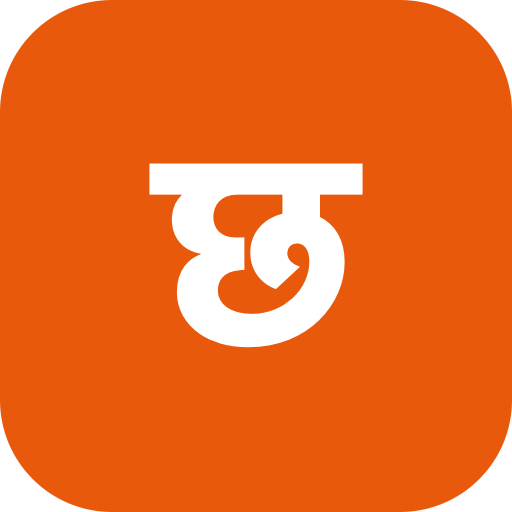
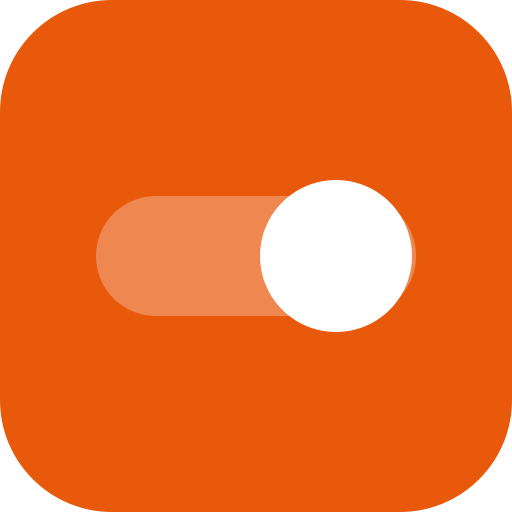
Rename: Chhalaang → Switch Karle
New name, same product. Chhalaang named the life event (the job switch);
it didn't say what the app DOES, and 'the leap' didn't scale past the CTC
decoder once Tracker and Prompt Studio shipped. Switch Karle names the whole
act of switching jobs — decode, track, negotiate — in the way people
actually say it to a friend ('arre switch kar le, yaar'), not an invented
portmanteau.

- GitHub repo renamed kalpitt/chhalaang -> kalpitt/switch-karle (GitHub
  keeps the old name redirecting)
- New icon: a toggle switch flicked on, replacing the छ glyph — literal,
  legible without any language-specific type
- All product strings renamed: package.json, manifest, index.html + OG tags,
  App.tsx header, ShareCard truth-card branding + download filename,
  Tracker backup filename, localStorage key prefix (chhalaang.* ->
  switchkarle.*), the AI-extractor prompt's JSON marker key, README, DEPLOY.md,
  GitHub Actions workflow name
- Service worker cache bumped to switchkarle-v1 so every existing visitor
  (i.e. Kalpit's own test installs) picks up the new branding immediately
- Canonical URL is now kalpit.me/switch-karle; old Cloudflare mirror keeps
  its chhalaang.tiwari-kalpit.workers.dev hostname (Cloudflare project
  renames need dashboard access, not urgent since it's a fallback mirror)

90/90 tests green, tsc clean, build clean, verified in-browser in both
languages (header stays 'Switch Karle' untranslated by design — it's a
[…]

Changed region(s): [[0.1875, 0.3125, 0.8125, 0.6875]]

diff --git a/index.html b/index.html
@@ -5,22 +5,22 @@
     <meta name="viewport" content="width=device-width, initial-scale=1.0" />
     <meta
       name="description"
-      content="Chhalaang (छलांग) — decode your Indian job offer. CTC to real in-hand salary, red-flag scanner for notice periods, bonds and variable pay. Free, open source, 100% in your browser."
+      content="Switch Karle — decode your Indian job offer. CTC to real in-hand salary, red-flag scanner for notice periods, bonds and variable pay. Free, open source, 100% in your browser."
     />
     <meta property="og:type" content="website" />
-    <meta property="og:title" content="Chhalaang — Decode your CTC. Know your real salary." />
+    <meta property="og:title" content="Switch Karle — Decode your CTC. Know your real salary." />
     <meta
       property="og:description"
       content="Your ₹24L CTC is not ₹2L/month. See the real in-hand, catch offer red flags, track your job hunt. Free, private, runs in your browser."
     />
-    <meta property="og:url" content="https://kalpit.me/chhalaang/" />
-    <meta property="og:image" content="https://kalpit.me/chhalaang/icon-512.png" />
+    <meta property="og:url" content="https://kalpit.me/switch-karle/" />
+    <meta property="og:image" content="https://kalpit.me/switch-karle/icon-512.png" />
     <meta name="twitter:card" content="summary" />
     <link rel="icon" type="image/svg+xml" href="./icon.svg" />
     <link rel="apple-touch-icon" href="./icon-180.png" />
     <link rel="manifest" href="./manifest.webmanifest" />
     <meta name="theme-color" content="#faf7f2" />
-    <title>Chhalaang — Decode your CTC. Know your real salary.</title>
+    <title>Switch Karle — Decode your CTC. Know your real salary.</title>
   </head>
   <body>
     <div id="root"></div>

diff --git a/src/i18n/hi.ts b/src/i18n/hi.ts
@@ -140,7 +140,7 @@ export const hi: Record<string, string> = {
   'shareCard.butBank': 'लेकिन bank में पहुंचता है',
   'shareCard.reaches': 'CTC का {pct}% bank तक पहुंचता है',
   'shareCard.redFlags': '⚑ इस offer में {n} red flag',
-  'shareCard.footer': 'kalpit.me/chhalaang',
+  'shareCard.footer': 'kalpit.me/switch-karle',
 
   // ---- Tracker ----
   'tracker.title': 'Applications',
@@ -153,7 +153,7 @@ export const hi: Record<string, string> = {
   'tracker.confirmDelete': 'यह application delete करें? यह वापस नहीं हो सकता।',
   'tracker.confirmImport': 'Import करने से आपका मौजूदा tracker और decoder data overwrite हो जाएगा। जारी रखें?',
   'tracker.importSuccess': 'Backup restore हो गया।',
-  'tracker.importError': 'यह file import नहीं हो सकी — क्या यह Chhalaang का backup है?',
+  'tracker.importError': 'यह file import नहीं हो सकी — क्या यह Switch Karle का backup है?',
   'stage.researching': 'Research कर रहे हैं',
   'stage.applied': 'Apply कर दिया',
   'stage.interviewing': 'Interview चल रहा है',

diff --git a/src/App.tsx b/src/App.tsx
@@ -10,8 +10,8 @@ import { PromptStudio } from './components/PromptStudio'
 import { AutoFill } from './components/AutoFill'
 import { useLang, useT } from './i18n'
 
-const STORAGE_KEY = 'chhalaang.decoder.v1'
-const TAB_STORAGE_KEY = 'chhalaang.tab'
+const STORAGE_KEY = 'switchkarle.decoder.v1'
+const TAB_STORAGE_KEY = 'switchkarle.tab'
 
 type Tab = 'decoder' | 'tracker' | 'prompts'
 
@@ -63,7 +63,7 @@ export default function App() {
     <div className="mx-auto max-w-5xl px-4 pb-16 pt-6 sm:px-6">
       <header className="mb-6">
         <h1 className="text-2xl font-extrabold tracking-tight">
-          छलांग <span className="font-semibold text-ink-soft">chhalaang</span>
+          Switch <span className="font-semibold text-ink-soft">Karle</span>
         </h1>
         <p className="mt-1 text-[15px] text-ink-soft">{t('app.tagline')}</p>
         <p className="mt-2 inline-flex items-center gap-1.5 rounded-full bg-leaf-soft px-3 py-1 text-xs font-semibold text-leaf">

diff --git a/src/components/ShareCard.tsx b/src/components/ShareCard.tsx
@@ -22,7 +22,7 @@ export function ShareButton({ b, flags }: { b: SalaryBreakdown; flags: RedFlag[]
       const url = await toPng(ref.current, { pixelRatio: 3, cacheBust: true })
       const a = document.createElement('a')
       a.href = url
-      a.download = 'chhalaang-ctc-truth.png'
+      a.download = 'switch-karle-ctc-truth.png'
       a.click()
     } finally {
       setBusy(false)
@@ -63,7 +63,7 @@ export function ShareButton({ b, flags }: { b: SalaryBreakdown; flags: RedFlag[]
           )}
           <div className="mt-6 flex items-baseline justify-between border-t border-white/15 pt-4">
             <p className="text-[15px] font-extrabold">
-              छलांग <span className="font-semibold text-white/60">chhalaang</span>
+              Switch <span className="font-semibold text-white/60">Karle</span>
             </p>
             <p className="text-[11px] font-semibold text-white/50">{t('shareCard.footer')}</p>
           </div>

diff --git a/src/i18n/en.ts b/src/i18n/en.ts
@@ -130,7 +130,7 @@ export const en: Record<string, string> = {
   'shareCard.butBank': 'but the bank sees',
   'shareCard.reaches': '{pct}% of CTC reaches the bank',
   'shareCard.redFlags': '⚑ {n} red flag{plural} in this offer',
-  'shareCard.footer': 'kalpit.me/chhalaang',
+  'shareCard.footer': 'kalpit.me/switch-karle',
 
   // ---- Tracker ----
   'tracker.title': 'Applications',
@@ -143,7 +143,7 @@ export const en: Record<string, string> = {
   'tracker.confirmDelete': 'Delete this application? This cannot be undone.',
   'tracker.confirmImport': 'Import will overwrite your current tracker and decoder data. Continue?',
   'tracker.importSuccess': 'Backup restored.',
-  'tracker.importError': 'Could not import this file — is it a Chhalaang backup?',
+  'tracker.importError': 'Could not import this file — is it a Switch Karle backup?',
   'stage.researching': 'Researching',
   'stage.applied': 'Applied',
   'stage.interviewing': 'Interviewing',

diff --git a/public/sw.js b/public/sw.js
@@ -1,10 +1,10 @@
 /* Chhalaang service worker: offline-first shell.
    Path-relative: the same worker serves at the domain root
    (chhalaang.tiwari-kalpit.workers.dev) and under a subpath
-   (kalpit.me/chhalaang) — the app shell URL is the registration scope.
+   (kalpit.me/switch-karle) — the app shell URL is the registration scope.
    Navigations: network-first (fresh app when online) with cached fallback.
    Same-origin assets: stale-while-revalidate. Bump VERSION to invalidate. */
-const VERSION = 'chhalaang-v2'
+const VERSION = 'switchkarle-v1'
 const SHELL = self.registration.scope
 
 self.addEventListener('install', (event) => {

diff --git a/src/prompts/offerImport.test.ts b/src/prompts/offerImport.test.ts
@@ -5,7 +5,7 @@ const FULL = `Here's my summary...
 
 \`\`\`json
 {
-  "chhalaang_offer": 1,
+  "switchkarle_offer": 1,
   "ctc_lpa": 28,
   "variable_lpa": 4.2,
   "basic_percent_of_fixed": 38,
@@ -70,6 +70,6 @@ describe('parseAiOffer', () => {
   })
 
   it('throws when JSON contains nothing usable', () => {
-    expect(() => parseAiOffer('{"chhalaang_offer": 1, "ctc_lpa": null}')).toThrow('no-fields')
+    expect(() => parseAiOffer('{"switchkarle_offer": 1, "ctc_lpa": null}')).toThrow('no-fields')
   })
 })

diff --git a/src/tracker/store.ts b/src/tracker/store.ts
@@ -1,9 +1,9 @@
 import type { Application, Insight, Stage } from './types'
 
-export const STORAGE_KEY = 'chhalaang.tracker.v1'
+export const STORAGE_KEY = 'switchkarle.tracker.v1'
 
 /** Same key App.tsx uses for the CTC Decoder's saved offer — kept in sync here for export/import. */
-const DECODER_STORAGE_KEY = 'chhalaang.decoder.v1'
+const DECODER_STORAGE_KEY = 'switchkarle.decoder.v1'
 
 export const STAGE_ORDER: Stage[] = ['researching', 'applied', 'interviewing', 'offer', 'decided']
 

diff --git a/vite.config.ts b/vite.config.ts
@@ -6,7 +6,7 @@ import tailwindcss from '@tailwindcss/vite'
 export default defineConfig({
   // Relative base: the same build must serve at the domain root
   // (chhalaang.tiwari-kalpit.workers.dev) AND under a subpath
-  // (kalpit.me/chhalaang via GitHub Pages project-page routing).
+  // (kalpit.me/switch-karle via GitHub Pages project-page routing).
   base: './',
   plugins: [react(), tailwindcss()],
   test: {

diff --git a/src/components/PromptStudio.tsx b/src/components/PromptStudio.tsx
@@ -9,7 +9,7 @@ import { scanRedFlags } from '../engine/redFlags'
 import { useT } from '../i18n'
 import { Card, Details, Select, TextArea } from './ui'
 
-const DECODER_STORAGE_KEY = 'chhalaang.decoder.v1'
+const DECODER_STORAGE_KEY = 'switchkarle.decoder.v1'
 const NO_APP = 'none'
 
 function useCategoryLabel(): Record<PromptTemplate['category'], string> {

diff --git a/src/i18n/index.ts b/src/i18n/index.ts
@@ -9,7 +9,7 @@ export type Lang = 'en' | 'hi'
  * here. `hi` only needs the keys that differ; missing ones fall back to `en`. */
 export const dictionaries: Record<Lang, Record<string, string>> = { en, hi }
 
-const STORAGE_KEY = 'chhalaang.lang'
+const STORAGE_KEY = 'switchkarle.lang'
 
 function loadLang(): Lang {
   try {

diff --git a/src/components/Tracker.tsx b/src/components/Tracker.tsx
@@ -78,7 +78,7 @@ export function Tracker() {
     const url = URL.createObjectURL(blob)
     const a = document.createElement('a')
     a.href = url
-    a.download = 'chhalaang-backup.json'
+    a.download = 'switch-karle-backup.json'
     a.click()
     URL.revokeObjectURL(url)
   }
